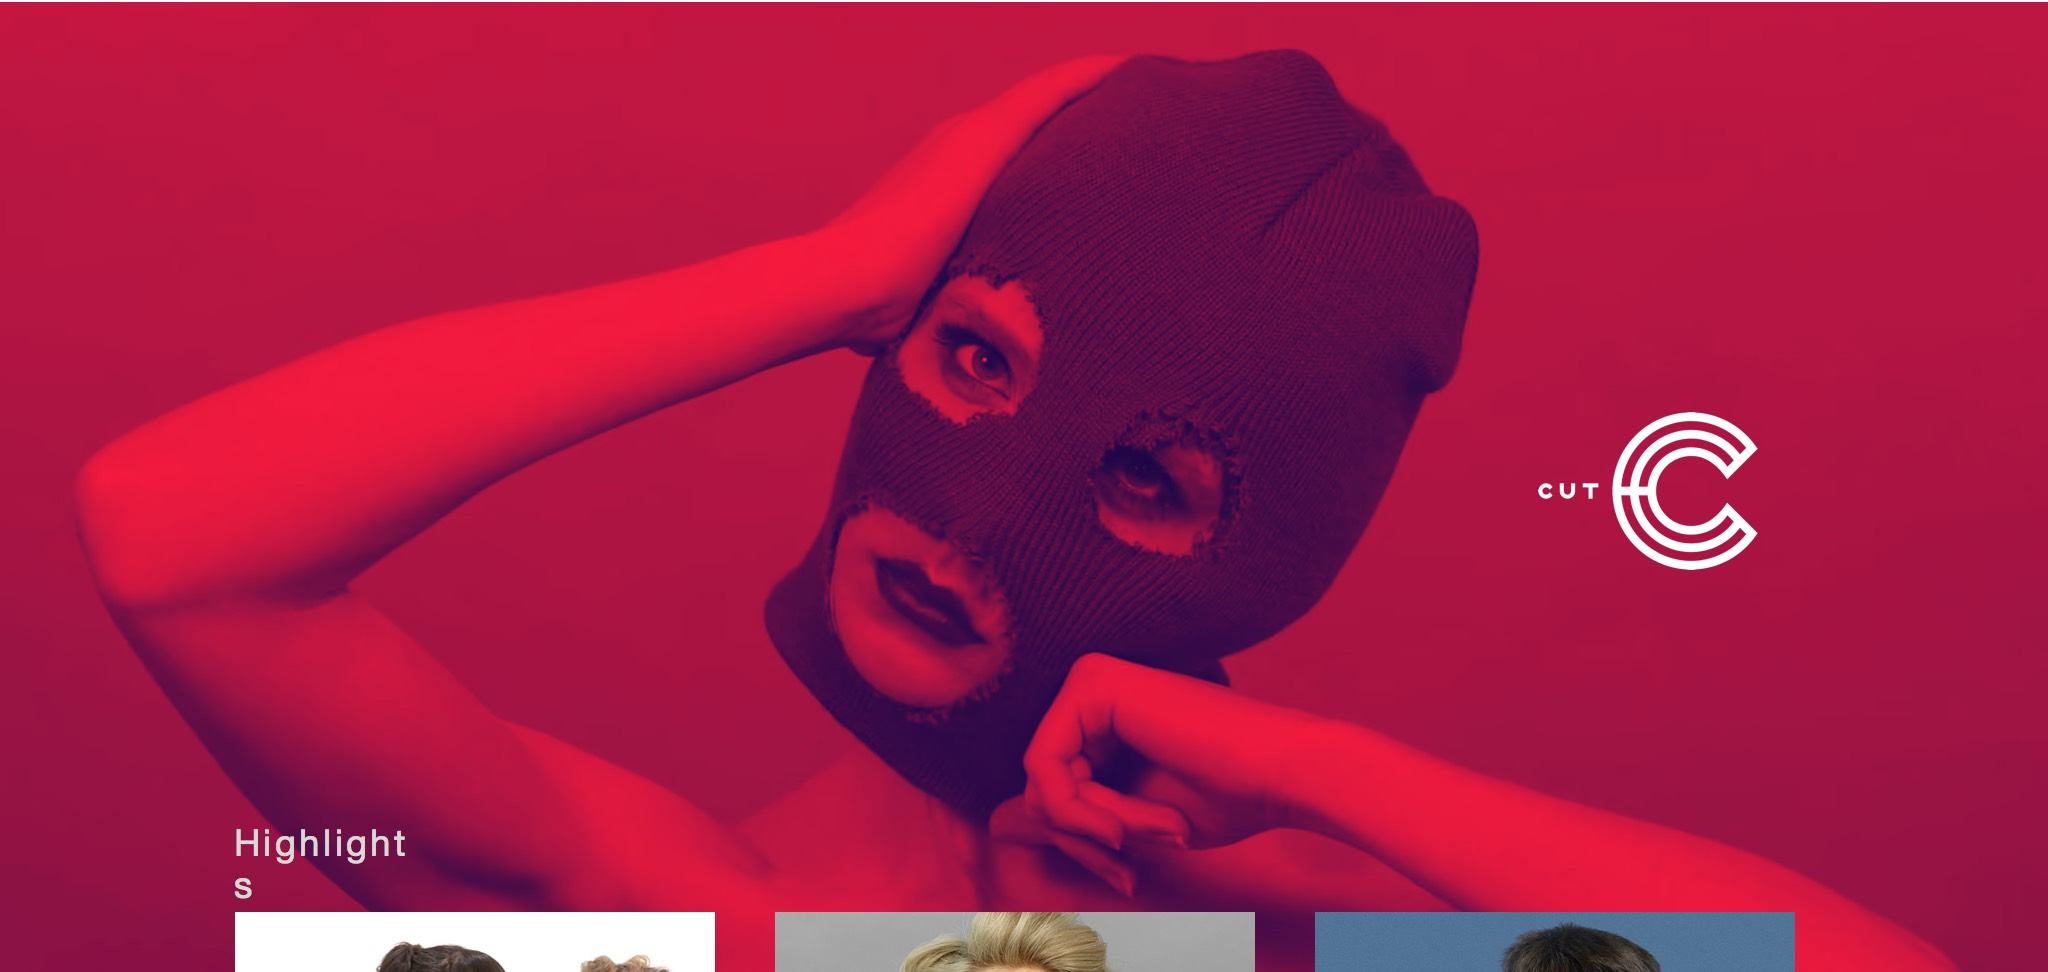
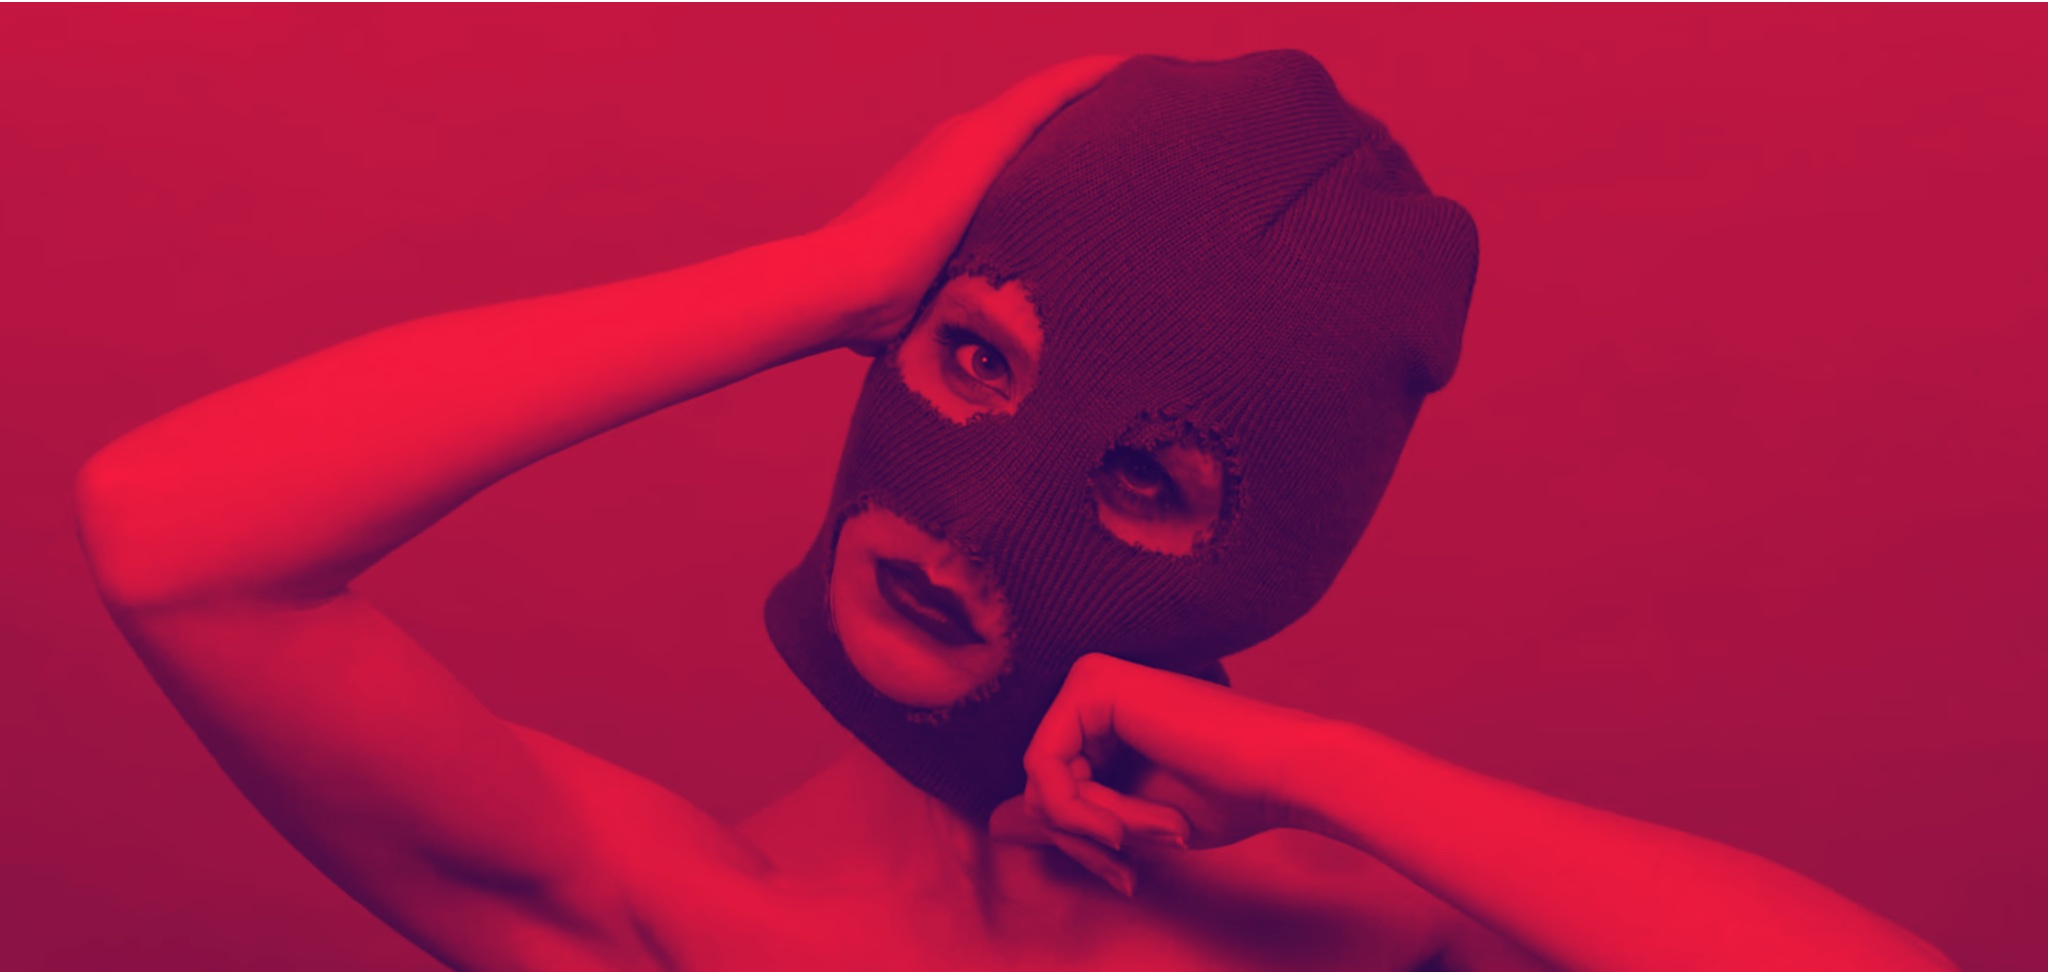
header done up

Changed region(s): [[0.0938, 0.8333, 0.875, 1.0], [0.75, 0.4012, 0.875, 0.5864]]

diff --git a/gulpfile.babel.js b/gulpfile.babel.js
@@ -2,6 +2,7 @@
 import gulp from 'gulp';
 import gulpLoadPlugins from 'gulp-load-plugins';
 import browserSync from 'browser-sync';
+import notify from 'gulp-notify';
 import del from 'del';
 import {stream as wiredep} from 'wiredep';
 
@@ -10,12 +11,19 @@ const reload = browserSync.reload;
 
 gulp.task('styles', () => {
   return gulp.src('app/styles/*.scss')
-    .pipe($.plumber())
+    .pipe($.plumber({
+    errorHandler: notify.onError({
+        sound: 'Purr',
+        title: "Sass Error:",
+        message:  "<%= error.message %>"})
+    }))
     .pipe($.sourcemaps.init())
     .pipe($.sass.sync({
       outputStyle: 'expanded',
       precision: 10,
-      includePaths: ['.']
+      compress: false,
+      linenos: false,
+      includePaths: require('node-bourbon').includePaths
     }).on('error', $.sass.logError))
     .pipe($.autoprefixer({browsers: ['last 1 version']}))
     .pipe($.sourcemaps.write())

diff --git a/app/styles/main.scss b/app/styles/main.scss
@@ -1,6 +1,13 @@
 // bower:scss
 // endbower
 
+@import "bourbon";
+
+html, body {
+  margin: 0;
+  padding: 0;
+}
+
 body {
   background: #fafafa;
   font-family: 'Helvetica Neue', Helvetica, Arial, sans-serif;
@@ -32,7 +39,26 @@ body {
 
 
 .hero {
-  background: url('images/hero.jpg') no-repeat center center;
+  background: url('/images/hero.jpg') no-repeat center center;
   background-size: cover;
-  height: 50vh;
+  height: 500px;
+  position: relative;
+
+  .cut-logo {
+    @include transform(translateY(-50%));
+    display: block;
+    height: 79px;
+    right: 10%;
+    position: absolute;
+    top: 50%;
+    width: 110px;
+
+    img {
+      width: 100%;
+    }
+  }
+
+  .highlights {
+    background: #D8D8D8;
+  }
 }

diff --git a/app/index.html b/app/index.html
@@ -8,6 +8,7 @@
 
     <link rel="apple-touch-icon" sizes="114x114" href="apple-touch-icon-114x114.png">
     <link rel="apple-touch-icon" sizes="144x144" href="apple-touch-icon-114x114.png">
+    <link rel="apple-touch-icon" sizes="180x180" href="apple-touch-icon-180x180.png">
     <!-- Place favicon.ico in the root directory -->
 
     <!-- build:css styles/vendor.css -->
@@ -28,7 +29,7 @@
     <![endif]-->
     
     <header class="hero">
-      
+      <a href="/" class="cut-logo"><img src="/images/logo.png"></a>
     </header>
 
     <section class="highlights">
